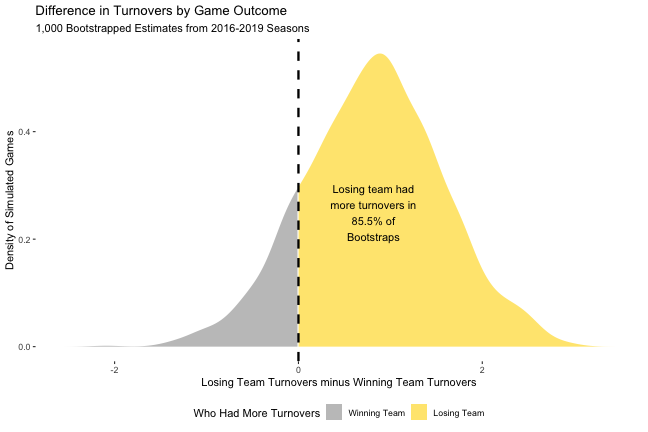
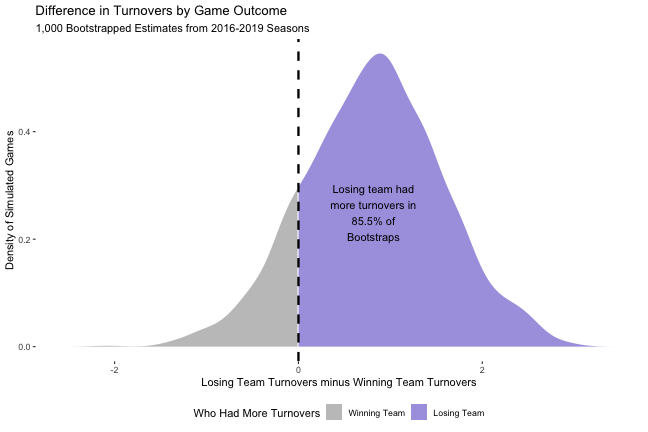
updates

Changed region(s): [[0.463, 0.1204, 0.9259, 0.8125], [0.6173, 0.9329, 0.679, 0.9931]]

diff --git a/Lectures/psc4175_lecture_11_slides.html b/Lectures/psc4175_lecture_11_slides.html
@@ -26,7 +26,7 @@ class: center, middle, inverse, title-slide
 ### Villanova University
 ]
 .date[
-### Slides Updated: 2024-09-29
+### Slides Updated: 2024-10-02
 ]
 
 ---
@@ -59,7 +59,7 @@ class: center, middle, inverse, title-slide
 
 --
 
-  - Specifically, `isRookie` and `pts`
+  - Specifically, `isRookie` and `tov`
   
   - But could try **many** other ideas
   
@@ -79,7 +79,7 @@ class: center, middle, inverse, title-slide
 
 --
 
-- Load the [`game_summary.Rds`](https://github.com/jbisbee1/DS1000_F2024/raw/main/data/game_summary.Rds) data
+- Load the [`game_summary.Rds`](https://github.com/rweldzius/PSC4175_F2024/raw/main/Data/game_summary.Rds) data
 
 
 ``` r
@@ -590,14 +590,14 @@ bsRes %&gt;%
 p  &lt;- bsRes %&gt;%
   ggplot(aes(x = avgTO,fill = isWin)) + 
   geom_density(alpha = .3) + 
-  geom_vline(data = bsRes %&gt;%
-               group_by(yearSeason,isWin) %&gt;%
-               summarise(avgTO = mean(avgTO,na.rm=T)),
-             aes(xintercept = avgTO,color = isWin),linetype = 'dashed') + 
-  geom_text(data = bsRes %&gt;%
-               group_by(yearSeason,isWin) %&gt;%
-               summarise(avgTO = mean(avgTO,na.rm=T)),
-             aes(x = avgTO,y = Inf,label = round(avgTO,1)),hjust = 1.1,vjust = 1.1,size = 3,angle = 90) + 
+* geom_vline(data = bsRes %&gt;%
+*              group_by(yearSeason,isWin) %&gt;%
+*              summarise(avgTO = mean(avgTO,na.rm=T)),
+*            aes(xintercept = avgTO,color = isWin),linetype = 'dashed') +
+* geom_text(data = bsRes %&gt;%
+*              group_by(yearSeason,isWin) %&gt;%
+*              summarise(avgTO = mean(avgTO,na.rm=T)),
+*            aes(x = avgTO,y = Inf,label = round(avgTO,1)),hjust = 1.1,vjust = 1.1,size = 3,angle = 90) +
   facet_grid(yearSeason~.)
 ```
 
@@ -717,20 +717,19 @@ toplot &lt;- bsRes %&gt;%
   mutate(TO_diff = isWin_FALSE - isWin_TRUE)
 
 tmp &lt;- density(toplot$TO_diff)
-p &lt;- data.frame(x = tmp$x,y = tmp$y,
-           area = tmp$x &gt;= 0) %&gt;%
+p &lt;- data.frame(x = tmp$x,y = tmp$y, area = tmp$x &gt;= 0) %&gt;%
   ggplot(aes(x = x,ymin = 0,ymax = y,fill = area)) + 
   geom_ribbon(alpha = .6) + 
   geom_vline(xintercept = 0,linetype = 'dashed',size = 1.1) + 
   annotate(geom = 'text',x = mean(toplot$TO_diff),y = .25,
-           label = paste0("Losing team had\nmore turnovers in\n",round(mean(toplot$TO_diff &gt; 0),3)*100,"% of\nBootstraps"),
+*          label = paste0("Losing team had\nmore turnovers in\n",round(mean(toplot$TO_diff &gt; 0),3)*100,"% of\nBootstraps"),
            hjust = .5) + 
   labs(title = 'Difference in Turnovers by Game Outcome',
        subtitle = '1,000 Bootstrapped Estimates from 2016-2019 Seasons',
        x = 'Losing Team Turnovers minus Winning Team Turnovers',
        y = 'Density of Simulated Games') + 
   scale_fill_manual(name = 'Who Had More Turnovers',
-                    values = c('grey60','gold'),labels = c('Winning Team','Losing Team')) + 
+                    values = c('grey60','slateblue'),labels = c('Winning Team','Losing Team')) + 
   theme(panel.background = element_blank(),
         legend.position = 'bottom')
 ```
@@ -768,7 +767,7 @@ p &lt;- data.frame(x = tmp$x,y = tmp$y,
 
 - **Homework:**
   
-  1. Work through psc4175_hw_11.Rmd
+  1. Work through psc4175_hw_11.Rmd (not due until AFTER fall break)
   
   2. Problem Set 5 (due on Friday by 11:59pm; submit on Blackboard)
     </textarea>

diff --git a/Homeworks/psc4175_hw_10.html b/Homeworks/psc4175_hw_10.html
@@ -350,7 +350,7 @@ display: none;
 
 
 <h1 class="title toc-ignore">Confidence and Uncertainty</h1>
-<h3 class="subtitle">Homework</h3>
+<h3 class="subtitle">Homework 10</h3>
 <h4 class="author">Prof. Weldzius</h4>
 <h4 class="date">Due Date: 2024-10-02 (last HW before midterm!)</h4>
 
@@ -657,8 +657,8 @@ goes from 3 to 24 (bad night).</p>
 ## 4 75th percentile  13.3
 ## 5 Max              14.5</code></pre>
 <p>So what this tells us is that the minimum turnovers for winners in
-all of the samples we drew was 11.2, the maximum was about 15 and the
-median was 12.9.</p>
+all of the samples we drew was 11.4, the maximum was about 14.5 and the
+median was 13.0.</p>
 <p>And for game losers, let’s look at the distribution.</p>
 <pre class="r"><code>gms_tov_rs%&gt;%
   filter(!isWin)%&gt;%
@@ -681,7 +681,7 @@ median was 12.9.</p>
 ## 4 75th percentile  14.2
 ## 5 Max              15.9</code></pre>
 <p>For game losers, minimum turnovers for winners in all of the samples
-we drew was 11.6, the maximum was about 16 (!!) and the median was
+we drew was 12.3, the maximum was about 16 (!!) and the median was
 13.8.</p>
 <p><em>Quick Exercise</em> Calculate the same summary, but do it for Pct
 of Free Throws above .8.</p>

diff --git a/Lectures/psc4175_lecture_10_slides.html b/Lectures/psc4175_lecture_10_slides.html
@@ -983,7 +983,8 @@ bsRes %&gt;%
 "highlightStyle": "github",
 "highlightLines": true,
 "countIncrementalSlides": false,
-"slideNumberFormat": "%current%"
+"slideNumberFormat": "%current%",
+"ratio": "16:9"
 });
 if (window.HTMLWidgets) slideshow.on('afterShowSlide', function (slide) {
   window.dispatchEvent(new Event('resize'));
